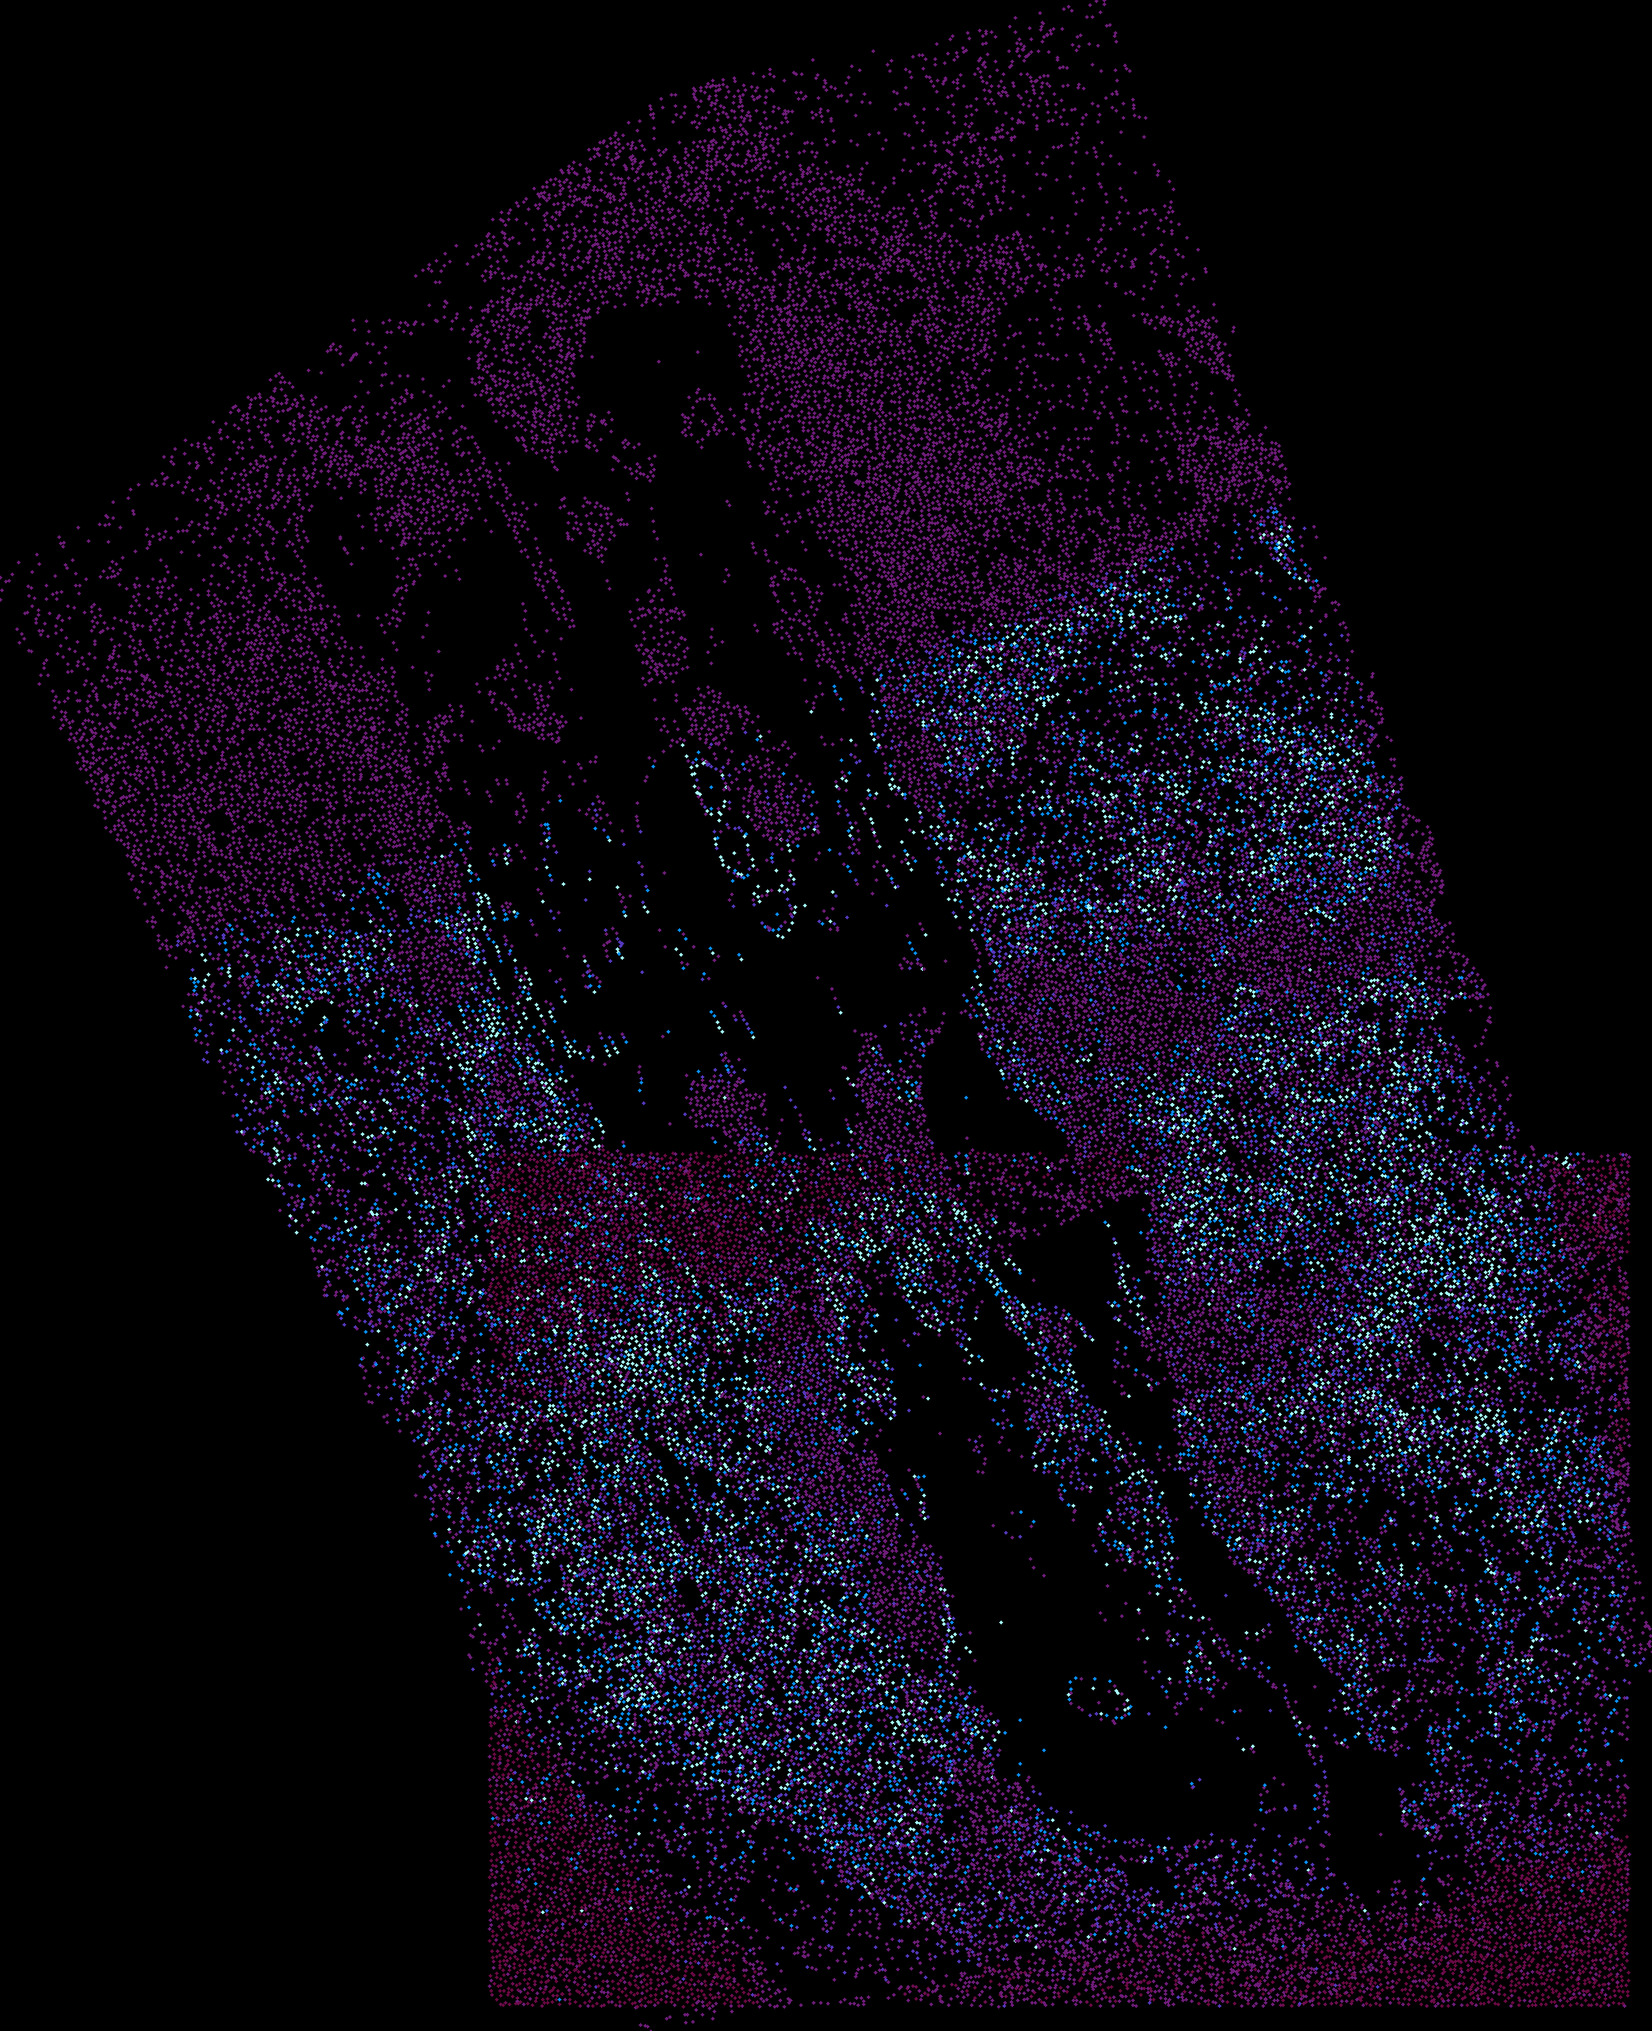
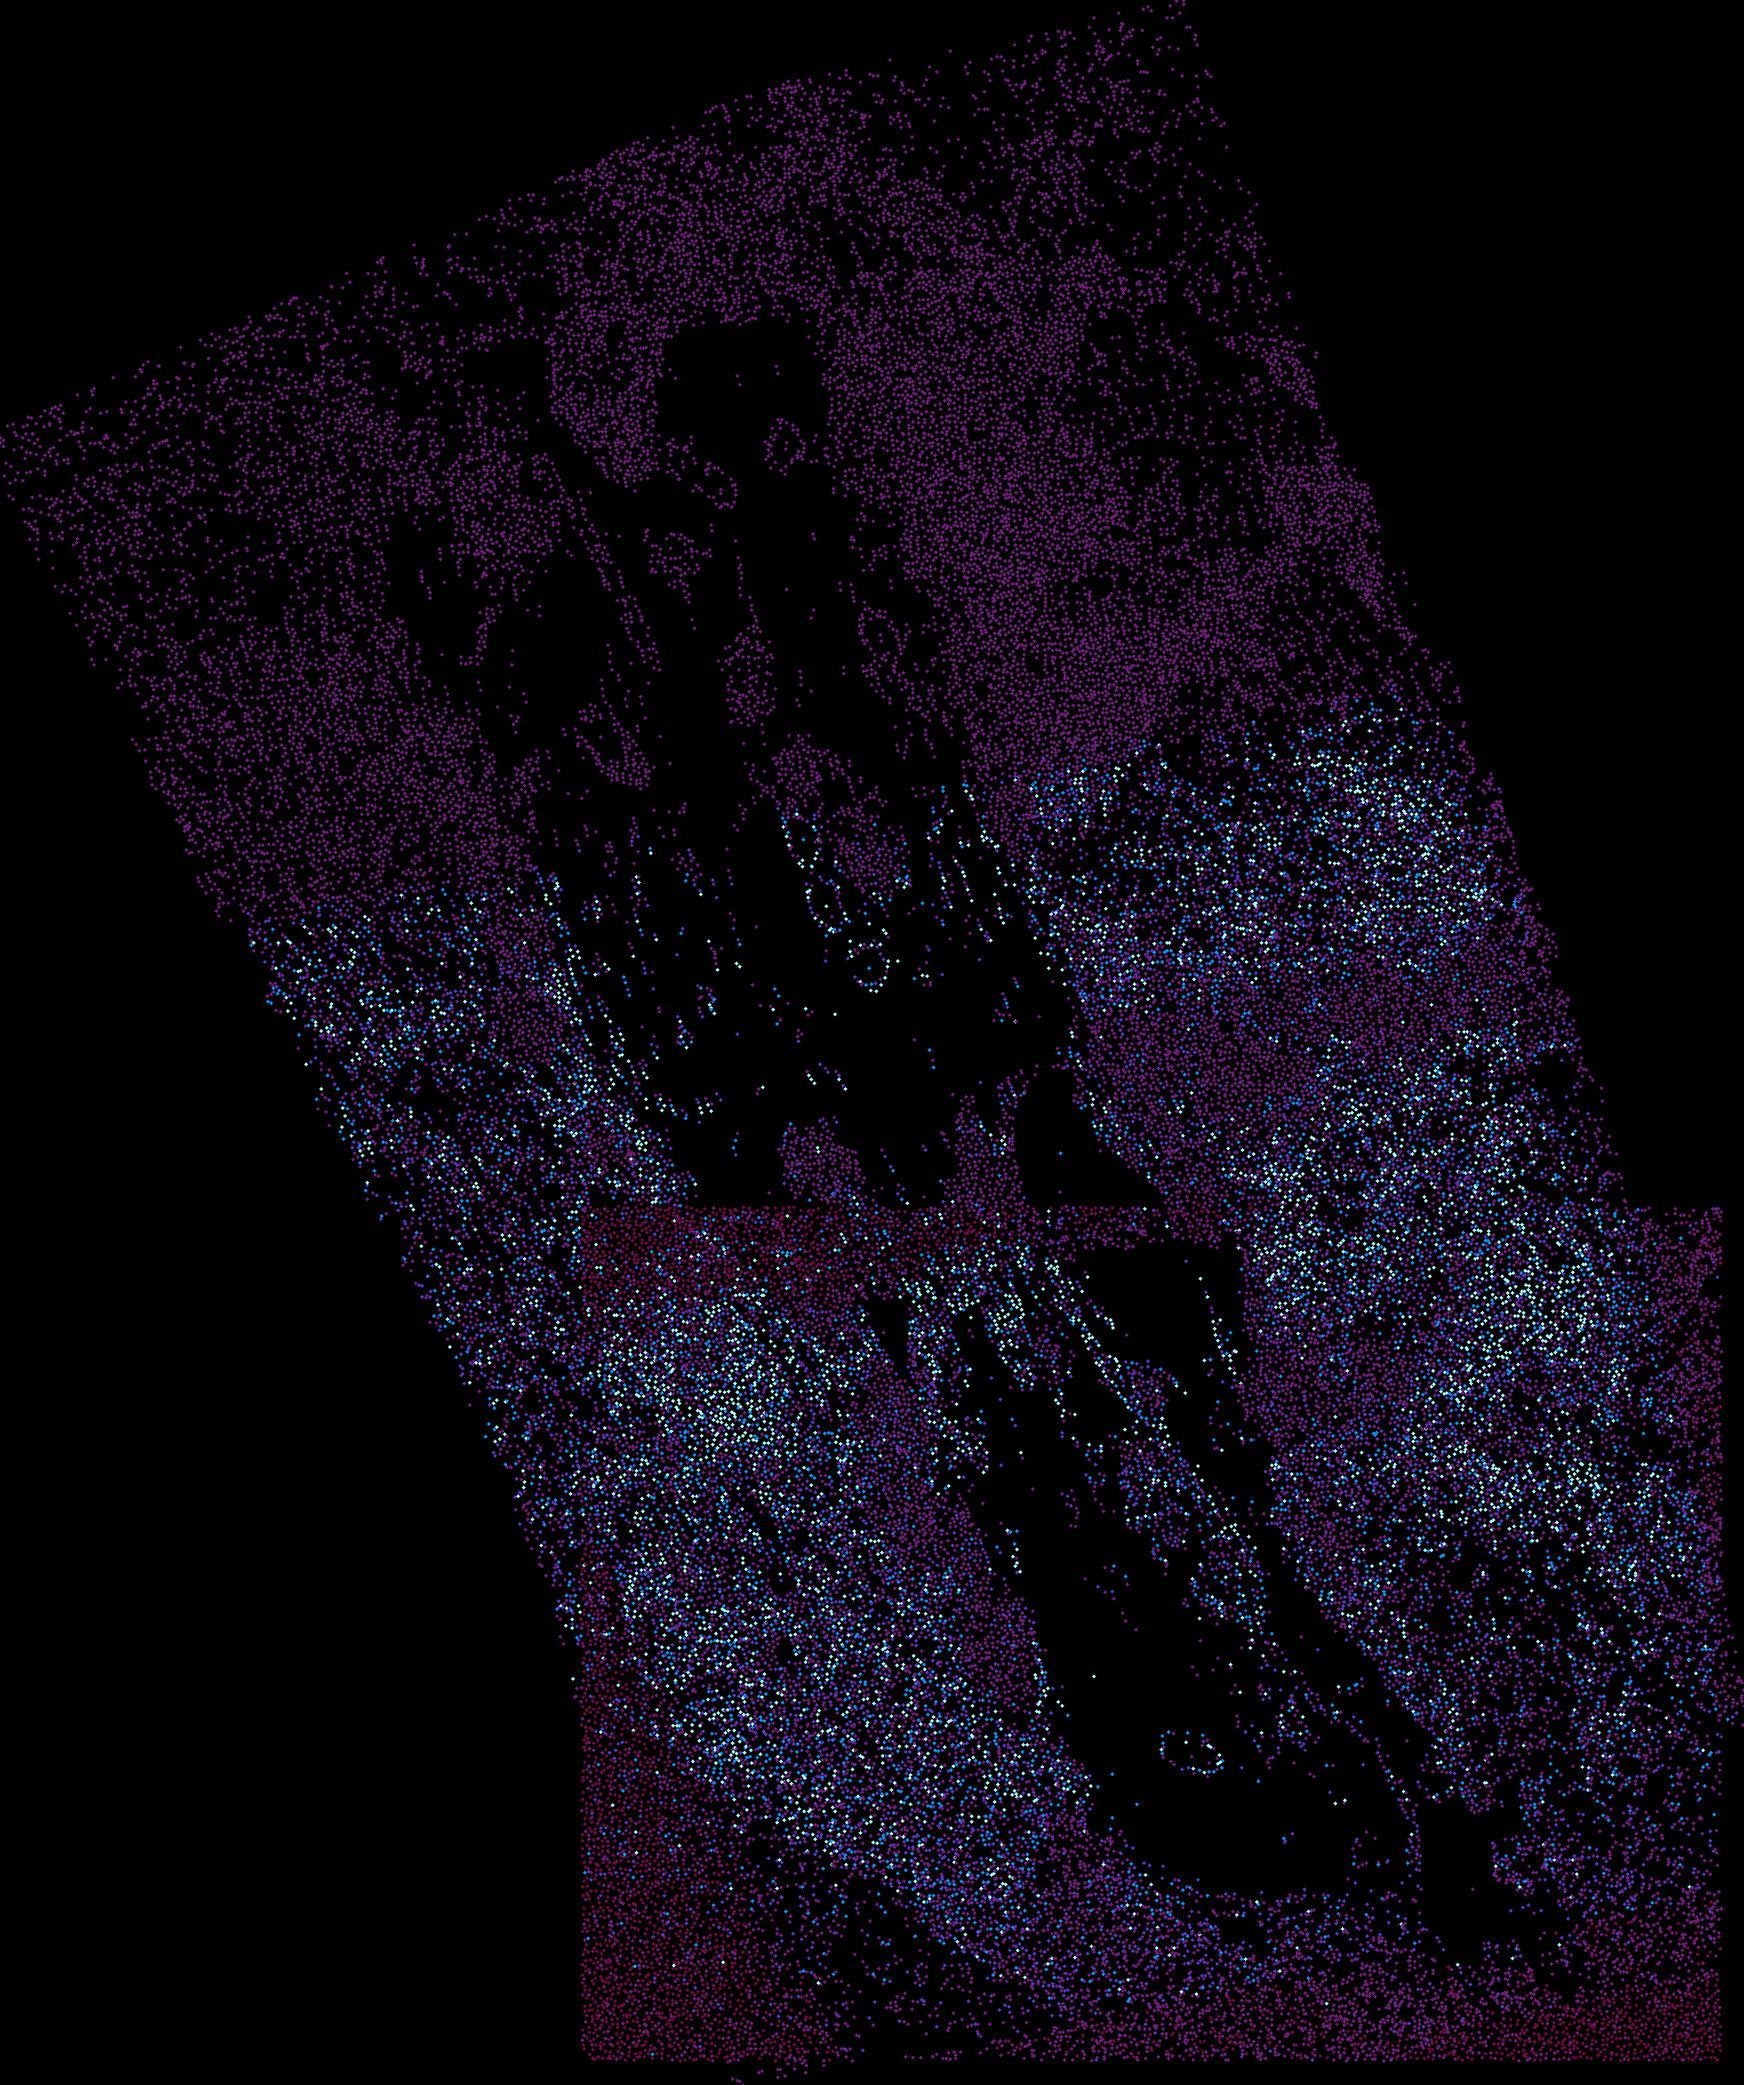
fixed bounding

Changed region(s): [[0.0, 0.0, 1.0, 1.0]]

diff --git a/main.py b/main.py
@@ -88,8 +88,10 @@ def GetSearchArea(Frame, ScaleFactor=2):
 
 if __name__ == '__main__':
 
-    cumulative_H = np.eye(3)
-    overall_translation = np.eye(3)
+    # cumulative_H = np.eye(3)
+    # overall_translation = np.eye(3)
+
+    cumulative_transform = np.eye(3)
 
     #start timer
     start = time.time()
@@ -183,141 +185,54 @@ if __name__ == '__main__':
 
         H_inv = np.linalg.inv(H)
 
-        second_img_h = additional_img.shape[0]
-        second_img_w = additional_img.shape[1]
-
-        corners_img2 = np.float32([[0, 0], 
-                                   [0, second_img_h], 
-                                   [second_img_w, second_img_h], 
-                                   [second_img_w, 0]]) \
-                                   .reshape(-1, 1, 2)
-
-        warped_corners_img2 = cv.perspectiveTransform(corners_img2, cumulative_H @ H_inv)
-        main_canvas_corners = np.float32([[0, 0], 
-                                          [0, main_canvas.shape[0]], 
-                                          [main_canvas.shape[1], main_canvas.shape[0]], 
-                                          [main_canvas.shape[1], 0]]) \
-                                          .reshape(-1, 1, 2)
+        h_add, w_add = additional_img.shape[:2]
+        h_main, w_main = main_canvas.shape[:2]
         
-        all_corners = np.concatenate((corners_img2, warped_corners_img2), axis=0)
-        # all_corners = np.concatenate((main_canvas_corners, warped_corners_img2), axis=0)
+        corners_add = np.array([[0, 0], [w_add, 0], [w_add, h_add], [0, h_add]], dtype=np.float32).reshape(-1, 1, 2)
+        corners_main = np.array([[0, 0], [w_main, 0], [w_main, h_main], [0, h_main]], dtype=np.float32).reshape(-1, 1, 2)
+        
+        # transformed_corners_add = cv.perspectiveTransform(corners_add, H_inv)
+        transformed_corners_add = cv.perspectiveTransform(corners_add, cumulative_transform @ H_inv)
+        all_corners = np.concatenate((corners_main, transformed_corners_add), axis=0)
 
         [x_min, y_min] = np.int32(all_corners.min(axis=0).ravel() - 0.5)
         [x_max, y_max] = np.int32(all_corners.max(axis=0).ravel() + 0.5)
 
-        translation_dist = [-x_min, -y_min]
+        translation_matrix = np.array([[1, 0, -x_min],
+                                    [0, 1, -y_min],
+                                    [0, 0, 1]], dtype=np.float32)
 
-        # x_min += overall_translation[0, 2]
-        # y_min += overall_translation[1, 2]
+        cumulative_transform = translation_matrix @ cumulative_transform
 
-        # x_max += overall_translation[0, 2]
-        # y_max += overall_translation[1, 2]
+        out_width = x_max - x_min
+        out_height = y_max - y_min
 
-        translation_matrix = np.array([[1, 0, translation_dist[0]], 
-                                       [0, 1, translation_dist[1]], 
-                                       [0, 0, 1]])
-        
-        overall_translation = overall_translation @ translation_matrix
-        
-        # H_translation = cumulative_H @ translation_matrix @ H_inv
-        # H_translation = translation_matrix @ cumulative_H @ H_inv
-        # H_translation = cumulative_H @ H_inv @ translation_matrix 
+        # warped_additional = cv.warpPerspective(additional_img, translation_matrix @ H_inv, (out_width, out_height))
+        warped_additional = cv.warpPerspective(additional_img, cumulative_transform @ H_inv, (out_width, out_height))
 
-        H_translation = overall_translation @ H_inv
+        translated_main_canvas = cv.warpPerspective(main_canvas, translation_matrix, (out_width, out_height))
 
-        # warped_corners_with_translation = cv.perspectiveTransform(corners_img2, H_translation)
-
-        # all_corners_with_translation = np.concatenate((main_canvas_corners, warped_corners_with_translation), axis=0)
-
-        # [new_x_min, new_y_min] = np.int32(all_corners_with_translation.min(axis=0).ravel() - 0.5)
-        # [new_x_max, new_y_max] = np.int32(all_corners_with_translation.max(axis=0).ravel() + 0.5)
-
-        cumulative_H = H_translation
-        # Normalize the cumulative homography
-        if not np.isclose(cumulative_H[2, 2], 1.0, atol=1e-6):
-            cumulative_H /= cumulative_H[2, 2]
-            # print("Normalized Cumulative H:", cumulative_H)
-
-        # Extract rotation and scaling (upper-left 2x2 matrix)
-        # rotation_scaling = cumulative_H[:2, :2]
-
-        # Extract translation (last column)
-        # translation = cumulative_H[:2, 2]
-
-        # print("STITCHING IMAGE: ", i+1)
-
-        # print("CUMULATIVE H:")
-        # print(cumulative_H)
-        # print("Rotation & Scaling:")
-        # print(rotation_scaling)
-        # print("Translation:")
-        # print(translation)
-        # theta = np.arctan2(rotation_scaling[1, 0], rotation_scaling[0, 0]) * 180 / np.pi
-        # print("Rotation Angle (degrees):", theta)
+        mask_additional = (warped_additional > 0).astype(np.uint8)
+        # mask_main_canvas = (translated_main_canvas > 0).astype(np.uint8)
+        mask_main_canvas = 1 - mask_additional
 
 
-        # print("TRANSLATION MATRIX:") 
-        # print(translation_matrix)
-        # print("H INV: ") 
-        # print(H_inv)
+        combined_mask = mask_additional + mask_main_canvas
+        combined_mask[combined_mask == 0] = 1
 
-        # H_translation =  H_inv
-        # H_translation = H @ translation_matrix
-        # new_warped_corners_img2 = cv.perspectiveTransform(corners_img2, cumulative_H)
-        # all_corners = np.concatenate((corners_img2, new_warped_corners_img2), axis=0)
+        # blended_img = (warped_additional + translated_main_canvas) / combined_mask
+        # blended = ((translated_main_canvas.astype(np.float32) + warped_additional.astype(np.float32)) / combined_mask).astype(np.uint8)
+        # overlapped = (translated_main_canvas * mask_main_canvas) + (warped_additional * mask_additional)
+        blended = (translated_main_canvas * mask_main_canvas) + (warped_additional * mask_additional)
 
-        # [x_min, y_min] = np.int32(all_corners.min(axis=0).ravel() - 0.5)
-        # [x_max, y_max] = np.int32(all_corners.max(axis=0).ravel() + 0.5)
 
-        x_main_canvas_min = min(main_canvas.shape[1], x_min)
-        y_main_canvas_min = min(main_canvas.shape[0], y_min)
+        overlapped = (translated_main_canvas * mask_main_canvas) + (warped_additional * mask_additional)
 
-        x_main_canvas_max = max(main_canvas.shape[1], x_max)
-        y_main_canvas_max = max(main_canvas.shape[0], y_max)
 
-        # x_main_canvas_min = min(main_canvas.shape[1], new_x_min)
-        # y_main_canvas_min = min(main_canvas.shape[0], new_y_min)
+        # cv.imwrite(f'out/blended/golf/blended_img_test_{i}.png', blended)
 
-        # x_main_canvas_max = max(main_canvas.shape[1], new_x_max)
-        # y_main_canvas_max = max(main_canvas.shape[0], new_y_max)
-
-        # print("x_main_canvas_min: ", x_main_canvas_min)
-        # print("y_main_canvas_min: ", y_main_canvas_min)
-        # print("x_main_canvas_max: ", x_main_canvas_max)
-        # print("y_main_canvas_max: ", y_main_canvas_max)
-
-        new_width = x_main_canvas_max - x_main_canvas_min
-        new_height = y_main_canvas_max - y_main_canvas_min
-        # warped_additional_img = cv.warpPerspective(additional_img, H_translation, (new_width, new_height))
-        warped_additional_img = cv.warpPerspective(additional_img, cumulative_H, (new_width, new_height))
-
-        mask1 = np.zeros((new_height, new_width), dtype=np.float32)
-        mask2 = np.zeros((new_height, new_width), dtype=np.float32)
-
-        x_offset = translation_dist[0]
-        y_offset = translation_dist[1]
-
-        new_main_canvas = np.zeros((new_height, new_width, 3), np.uint8)
-        print("NEW MAIN CANVAS SIZE: ", new_main_canvas.shape)
-        print("ITERATION: ", i+1)
-        print(" ")
-        new_main_canvas[y_offset:main_canvas.shape[0]+y_offset, x_offset:main_canvas.shape[1]+x_offset] = main_canvas
-        # mask1[y_offset:main_canvas.shape[0]+y_offset, x_offset:main_canvas.shape[1]+x_offset] = 1
-        
-        #set mask only where main_canvas is not black
-        mask1[y_offset:main_canvas.shape[0]+y_offset, x_offset:main_canvas.shape[1]+x_offset] = cv.cvtColor(main_canvas, cv.COLOR_BGR2GRAY) > 0
-
-        warped_img2_gray = cv.cvtColor(warped_additional_img, cv.COLOR_BGR2GRAY)
-        mask2[warped_img2_gray > 0] = 1
-
-        # if photos overlay result will be 0.5 for both masks, blending will be 50/50
-        alpha = mask1 / (mask1 + mask2 + 1e-10)
-        beta = 1 - alpha
-
-        for c in range(3):
-            new_main_canvas[:, :, c] = (alpha * new_main_canvas[:, :, c] + beta * warped_additional_img[:, :, c]).astype(np.uint8)
-
-        previous_box = warped_corners_img2.reshape(-1, 2)
+        # previous_box = warped_corners_img2.reshape(-1, 2)
+        previous_box = transformed_corners_add.reshape(-1, 2)
 
         ################### ADD KEYPOINTS TO STORAGE ###################
         matched_keypoints = []
@@ -341,8 +256,9 @@ if __name__ == '__main__':
         ############ update realability by 0.7 to points that are not matched, but lying within the search area and new image area ########
 
         search_area_polygon = Polygon(SearchArea.reshape(-1, 2))
-        new_image_bounding_box = cv.boundingRect(warped_corners_img2)
-        new_image_polygon = Polygon(warped_corners_img2.reshape(-1, 2))
+        # new_image_bounding_box = cv.boundingRect(warped_corners_img2)
+        # new_image_polygon = Polygon(warped_corners_img2.reshape(-1, 2))
+        new_image_polygon = Polygon(transformed_corners_add.reshape(-1, 2))
 
         not_matched_keypoints = []
         not_matched_descriptors = []
@@ -380,10 +296,13 @@ if __name__ == '__main__':
 
 
         visualisation = kp_storage.visualize_keypoints()
-        cv.imwrite(f'out/keypoints/golf/keypoints_storage_{i}.png', visualisation)
+        # cv.imwrite(f'out/keypoints/golf/keypoints_storage_{i}.png', visualisation)
+        cv.imwrite(f'out/keypoints/highway/keypoints_storage_{i}.png', visualisation)
         # print("PREVIOUS BOX: ", previous_box)
 
-        main_canvas = new_main_canvas
+        # main_canvas = new_main_canvas
+        print("Iteration: ", i+1)
+        main_canvas = blended
 
         ################### DRAW MATCHES ###################
 
@@ -407,7 +326,8 @@ if __name__ == '__main__':
         # cv.imshow('Matches', matches_img)
         # cv.waitKey(0)
 
-    cv.imwrite(f'out/blended/golf/blended_img_cnt{range_imgs+1}.png', main_canvas)
+    # cv.imwrite(f'out/blended/golf/blended_img_cnt{range_imgs+1}.png', main_canvas)
+    cv.imwrite(f'out/blended/highway/blended_img_cnt{range_imgs+1}.png', main_canvas)
 
     # count runtime
     end = time.time()

diff --git a/resize_images.py b/resize_images.py
@@ -2,8 +2,9 @@ import os
 from PIL import Image
 
 # Paths
-src_folder = os.path.join("src", "DroneMapper_Golf9_May2016")
-output_folder = os.path.join("src", "resized_photos")
+# src_folder = os.path.join("src", "DroneMapper_Golf9_May2016")
+src_folder = os.path.join("src", "Dominican_Highway")
+output_folder = os.path.join("src", "resized_photos_highway")
 
 # Target resolution
 target_width = 1920
